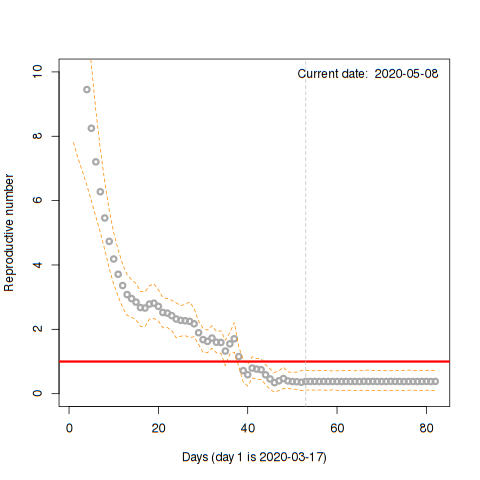
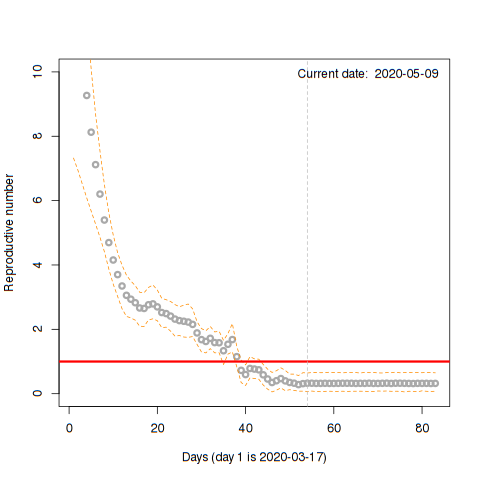
daily update

diff --git a/README.md b/README.md
@@ -20,7 +20,7 @@ I will keep updating this as much as possible.
 
 ![](./inst/doc/fit_with_projections_infected.png)
 
-The number of infected people as a function of time (days; day 1 is 2020-03-17) in circles. Vertical line represents "today". The blue line shown is the model fit to a modified SIR model with 95% Credible Intervals in orange. Simple deterministic (mean-field) forecasts from the recursive model are shown.
+The number of infected people as a function of time (days; day 1 is 2020-03-17) in circles. Vertical line represents "today". The blue line shown is the model fit to a modified SIR model with 95% Credible Intervals in orange. Simple deterministic (mean-field) forecasts from the recursive model are shown. Note there is some underestimation near the peak as there was a large cluster outbreak in Northwood, smething that a mean-field (ODE) approach has difficulty tracking.
 
 ---
 
@@ -36,7 +36,7 @@ The number of recovered people as a function of time (days; day 1 is 2020-03-17)
 
 ![](./inst/doc/fit_with_projections_mortalities.png)
 
-The number of deaths as a function of time (days; day 1 is 2020-03-17) in circles. Vertical line represents "today". The blue line shown is the model fit to a modified SIR model with 95% Credible Intervals in orange. Simple deterministic (mean-field) forecasts from the recursive model are shown. The model fit is poor as mortality is a time-lagged process but the model is not. However, as a first order estimate of the scale of the process (mortality), it is still reasonable. I will add a time-lagged process shortly.
+The number of deaths as a function of time (days; day 1 is 2020-03-17) in circles. Vertical line represents "today". The blue line shown is the model fit to a modified SIR model with 95% Credible Intervals in orange. Simple deterministic (mean-field) forecasts from the recursive model are shown.
 
 
 
@@ -50,7 +50,7 @@ How the reproductive number has been changing over the course of the epidemic. C
 
 ![](./inst/doc/reproductive_number_today.png)
 
-The current estimate of the reproductive number (posterior distribution). There is still a non-zero probablity that the Reproductive number is larger than 1 (red line), but the majority of the distribution is currently below 1.
+The current estimate of the reproductive number (posterior distribution), which is very clearly now below 1 (red line)!
 
 
 ---
@@ -58,7 +58,7 @@ The current estimate of the reproductive number (posterior distribution). There 
 
 ![](./inst/doc/fit_with_projections_and_stochastic_simulations.png)
 
-Finally, individual trajectories of stochastic simulations are shown. These are based upon the joint posterior distributions of the parameter estimates for the most "current day", obtained from the above analysis. These trajectories represent possible futures, accounting for small number stochasticity (unlike the mean-field ODE-based "forward" predictions), assuming the current "situation" remains constant/consistent (i.e., control measures and population behaviours encapsualted in the joint-posterior distributions of the model parameters) . The majority of the trajectories suggest a continued decline in the number of infected people. Nonetheless, there still exists some scenarios of rapid disease outbreak.
+Finally, individual trajectories of stochastic simulations are shown. These are based upon the joint posterior distributions of the parameter estimates for the most "current day", obtained from the above analysis. These trajectories represent possible futures, accounting for small number stochasticity (unlike the mean-field ODE-based "forward" predictions), assuming the current "situation" remains constant/consistent (i.e., control measures and population behaviours encapsualted in the joint-posterior distributions of the model parameters). The majority of the trajectories suggest a continued decline in the number of infected people. Nonetheless, there still exists some scenarios of rapid disease outbreak (albeit with a low probability).
 
 
 
